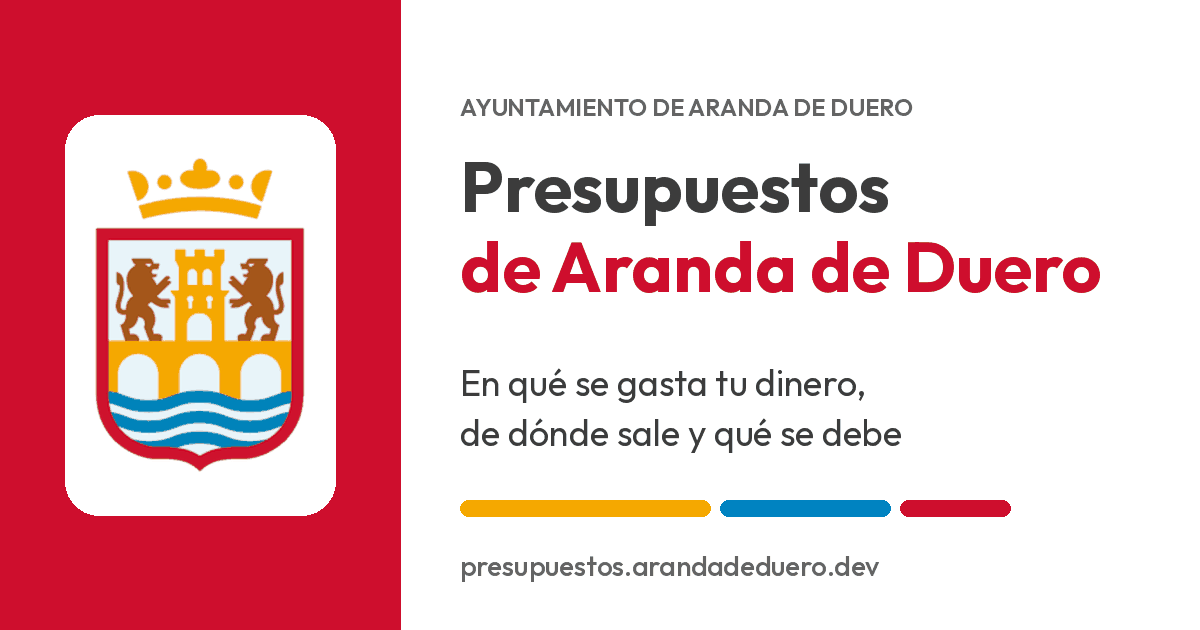
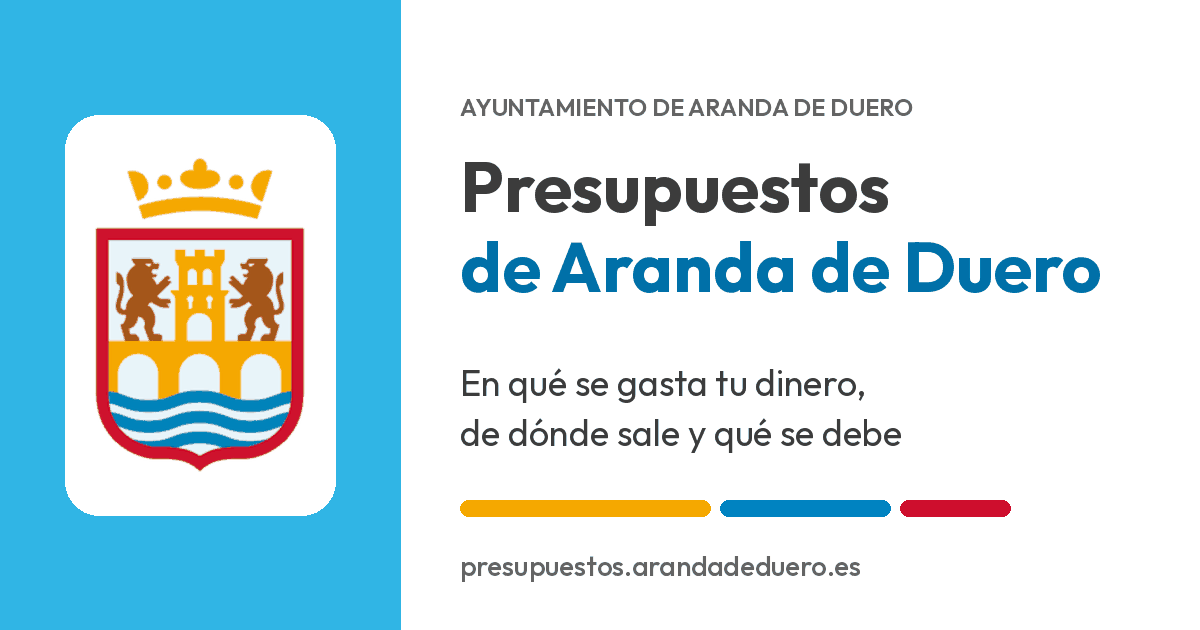
feat: la imagen social pasa al celeste de la cabecera
La franja de social.png deja el rojo por el celeste de la franja del
logotipo (#30b5e5) y la segunda línea del título usa el azul de los
enlaces, igual que la web desde el cambio de imagen.

Claude-Session: https://claude.ai/code/session_01VJHBK6kFhyiqHjqXLNaxXy

Changed region(s): [[0.0, 0.0, 0.3392, 1.0], [0.37, 0.3619, 0.925, 0.4825], [0.6783, 0.8746, 0.74, 0.9349]]

diff --git a/tools/generar_imagen_social.py b/tools/generar_imagen_social.py
@@ -24,6 +24,7 @@ FUENTE = RAIZ / "site" / "fonts" / "outfit-latin-wght-normal.woff2"
 
 # Paleta municipal (la misma que site/css/styles.css)
 ROJO, AMBAR, AZUL = "#ce0e2d", "#f5a800", "#0083c1"
+CELESTE_LOGO, AZUL_ENLACE = "#30b5e5", "#0070a8"  # franja de la cabecera (--franja) y azul de texto (--enlace)
 GRIS_OSCURO, GRIS, AZUL_CLARO, BLANCO = "#3c3c3c", "#646464", "#e9f4f9", "#ffffff"
 
 
@@ -56,8 +57,8 @@ def imagen_social(escudo: Image.Image) -> Image.Image:
     ancho, alto, izq = 1200, 630, 400
     im = Image.new("RGB", (ancho, alto), BLANCO)
     d = ImageDraw.Draw(im)
-    d.rectangle((0, 0, izq, alto), fill=ROJO)
-    # Placa clara con el escudo (el escudo no se lee sobre el rojo)
+    d.rectangle((0, 0, izq, alto), fill=CELESTE_LOGO)
+    # Placa clara con el escudo, como en el pie de la web (el escudo no se lee sobre el celeste)
     pw, ph = 270, 400
     px, py = (izq - pw) // 2, (alto - ph) // 2
     d.rounded_rectangle((px, py, px + pw, py + ph), radius=34, fill=BLANCO)
@@ -69,7 +70,7 @@ def imagen_social(escudo: Image.Image) -> Image.Image:
     d.text((x, 92), "AYUNTAMIENTO DE ARANDA DE DUERO", font=outfit(600, 24), fill=GRIS)
     titulo = outfit(700, 70)
     d.text((x, 142), "Presupuestos", font=titulo, fill=GRIS_OSCURO)
-    d.text((x, 222), "de Aranda de Duero", font=titulo, fill=ROJO)
+    d.text((x, 222), "de Aranda de Duero", font=titulo, fill=AZUL_ENLACE)
     lema = outfit(400, 36)
     for i, linea in enumerate(["En qué se gasta tu dinero,", "de dónde sale y qué se debe"]):
         d.text((x, 360 + i * 50), linea, font=lema, fill=GRIS_OSCURO)
